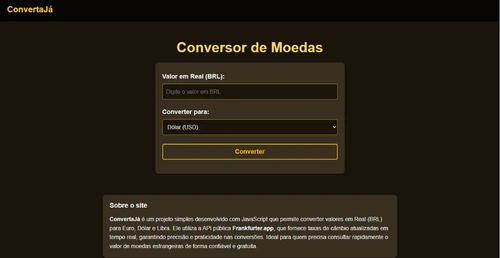
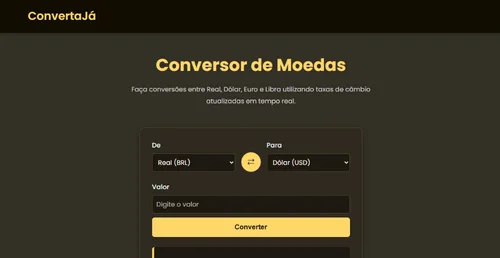
atualizacao-fotos

diff --git a/index.html b/index.html
@@ -345,7 +345,10 @@
                         <div class="project-content">
                             <h3>Streamis Net</h3>
                             <p>
-                                Site fictício da provedora de internet "Streamis Net". Possui layout moderno, responsivo e flexível como serviços, planos, equipe, depoimentos e formulário de contato. Projeto voltado para portfólio web, com foco em organização, design limpo e experiência do usuário.
+                                Site fictício da provedora de internet "Streamis Net". Possui layout moderno, responsivo
+                                e flexível como serviços, planos, equipe, depoimentos e formulário de contato. Projeto
+                                voltado para portfólio web, com foco em organização, design limpo e experiência do
+                                usuário.
                             </p>
                             <div class="project-tech">
                                 <span>HTML</span>
@@ -356,6 +359,30 @@
                             <div class="project-links">
                                 <a href="https://github.com/SamuelOlDourado/streamis-net-landingpage">GitHub</a>
                                 <a href="https://streamis-net.vercel.app/">Visualizar</a>
+                            </div>
+                        </div>
+                    </div>
+                </div>
+
+
+                <div class="col-12 col-md-6 col-lg-4 project-col frontend">
+                    <div class="project-card frontend">
+                        <img src="img/projetos/coversor-print.webp" alt="Figma">
+                        <div class="project-content">
+                            <h3>ConvertaJá</h3>
+                            <p>
+                                ConvertaJá é um projeto simples desenvolvido com JavaScript que permite converter
+                                valores em Real (BRL) para Euro, Dólar e Libra. Ele utiliza a API pública
+                                Frankfurter.app, que fornece taxas de câmbio atualizadas.
+                            <div class="project-tech">
+                                <span>HTML</span>
+                                <span>CSS</span>
+                                <span>JavaScript</span>
+                                <span>Consumo API</span>
+                            </div>
+                            <div class="project-links">
+                                <a href="https://github.com/SamuelOlDourado/converta-ja">GitHub</a>
+                                <a href="https://converta-ja.vercel.app/">Visualizar</a>
                             </div>
                         </div>
                     </div>
@@ -393,7 +420,9 @@
                         <div class="project-content">
                             <h3>GameStack</h3>
                             <p>
-                                Protótipo visual de uma aplicação web voltada para o gerenciamento e divulgação de projetos de jogos. O sistema de conta com autenticação de usuários, CRUD de projetos, sessões, busca, paginação e integração com banco de dados PostgreSQL.
+                                Protótipo visual de uma aplicação web voltada para o gerenciamento e divulgação de
+                                projetos de jogos. O sistema de conta com autenticação de usuários, CRUD de projetos,
+                                sessões, busca, paginação e integração com banco de dados PostgreSQL.
                             </p>
                             <div class="project-tech">
                                 <span>HTML</span>
@@ -414,7 +443,9 @@
                         <div class="project-content">
                             <h3>Vovô Conectado</h3>
                             <p>
-                                Site educativo com tutoriais simples e ilustrados para ajudar idosos a usar aplicativos e recursos do celular, como WhatsApp, Facebook, bancos, entre outros. O projeto foca em acessibilidade digital e inclusão social.
+                                Site educativo com tutoriais simples e ilustrados para ajudar idosos a usar aplicativos
+                                e recursos do celular, como WhatsApp, Facebook, bancos, entre outros. O projeto foca em
+                                acessibilidade digital e inclusão social.
                             </p>
                             <div class="project-tech">
                                 <span>HTML</span>
@@ -425,27 +456,6 @@
                             <div class="project-links">
                                 <a href="https://github.com/SamuelOlDourado/SiteVovoCONECTADO">GitHub</a>
                                 <a href="https://site-vovo-conectado.vercel.app/">Visualizar</a>
-                            </div>
-                        </div>
-                    </div>
-                </div>
-
-                <div class="col-12 col-md-6 col-lg-4 project-col frontend">
-                    <div class="project-card frontend">
-                        <img src="img/projetos/coversor-print.webp" alt="Figma">
-                        <div class="project-content">
-                            <h3>ConvertaJá</h3>
-                            <p>
-                                ConvertaJá é um projeto simples desenvolvido com JavaScript que permite converter valores em Real (BRL) para Euro, Dólar e Libra. Ele utiliza a API pública Frankfurter.app, que fornece taxas de câmbio atualizadas.
-                            <div class="project-tech">
-                                <span>HTML</span>
-                                <span>CSS</span>
-                                <span>JavaScript</span>
-                                <span>API</span>
-                            </div>
-                            <div class="project-links">
-                                <a href="https://github.com/SamuelOlDourado/converta-ja">GitHub</a>
-                                <a href="https://converta-ja.vercel.app/">Visualizar</a>
                             </div>
                         </div>
                     </div>
@@ -538,6 +548,7 @@
                 <div class="education-column col-md-6">
                     <h3>Certificações</h3>
 
+
                     <div class="education-card">
                         <i class="bi bi-award-fill"></i>
                         <div>
@@ -545,6 +556,8 @@
                             <span>Cisco Networking Academy</span>
                         </div>
                     </div>
+
+
 
                     <div class="education-card">
                         <i class="bi bi-award-fill"></i>
@@ -554,13 +567,17 @@
                         </div>
                     </div>
 
+
+
                     <div class="education-card">
                         <i class="bi bi-award-fill"></i>
                         <div>
-                            <h4>Microsoft Exel 2016 - Básico</h4>
+                            <h4>Microsoft Excel 2016 - Básico</h4>
                             <span>Fundação Bradesco</span>
                         </div>
                     </div>
+
+
 
                     <div class="education-card">
                         <i class="bi bi-award-fill"></i>
@@ -569,6 +586,8 @@
                             <span>SENAI</span>
                         </div>
                     </div>
+                    
+
                 </div>
 
             </div>
